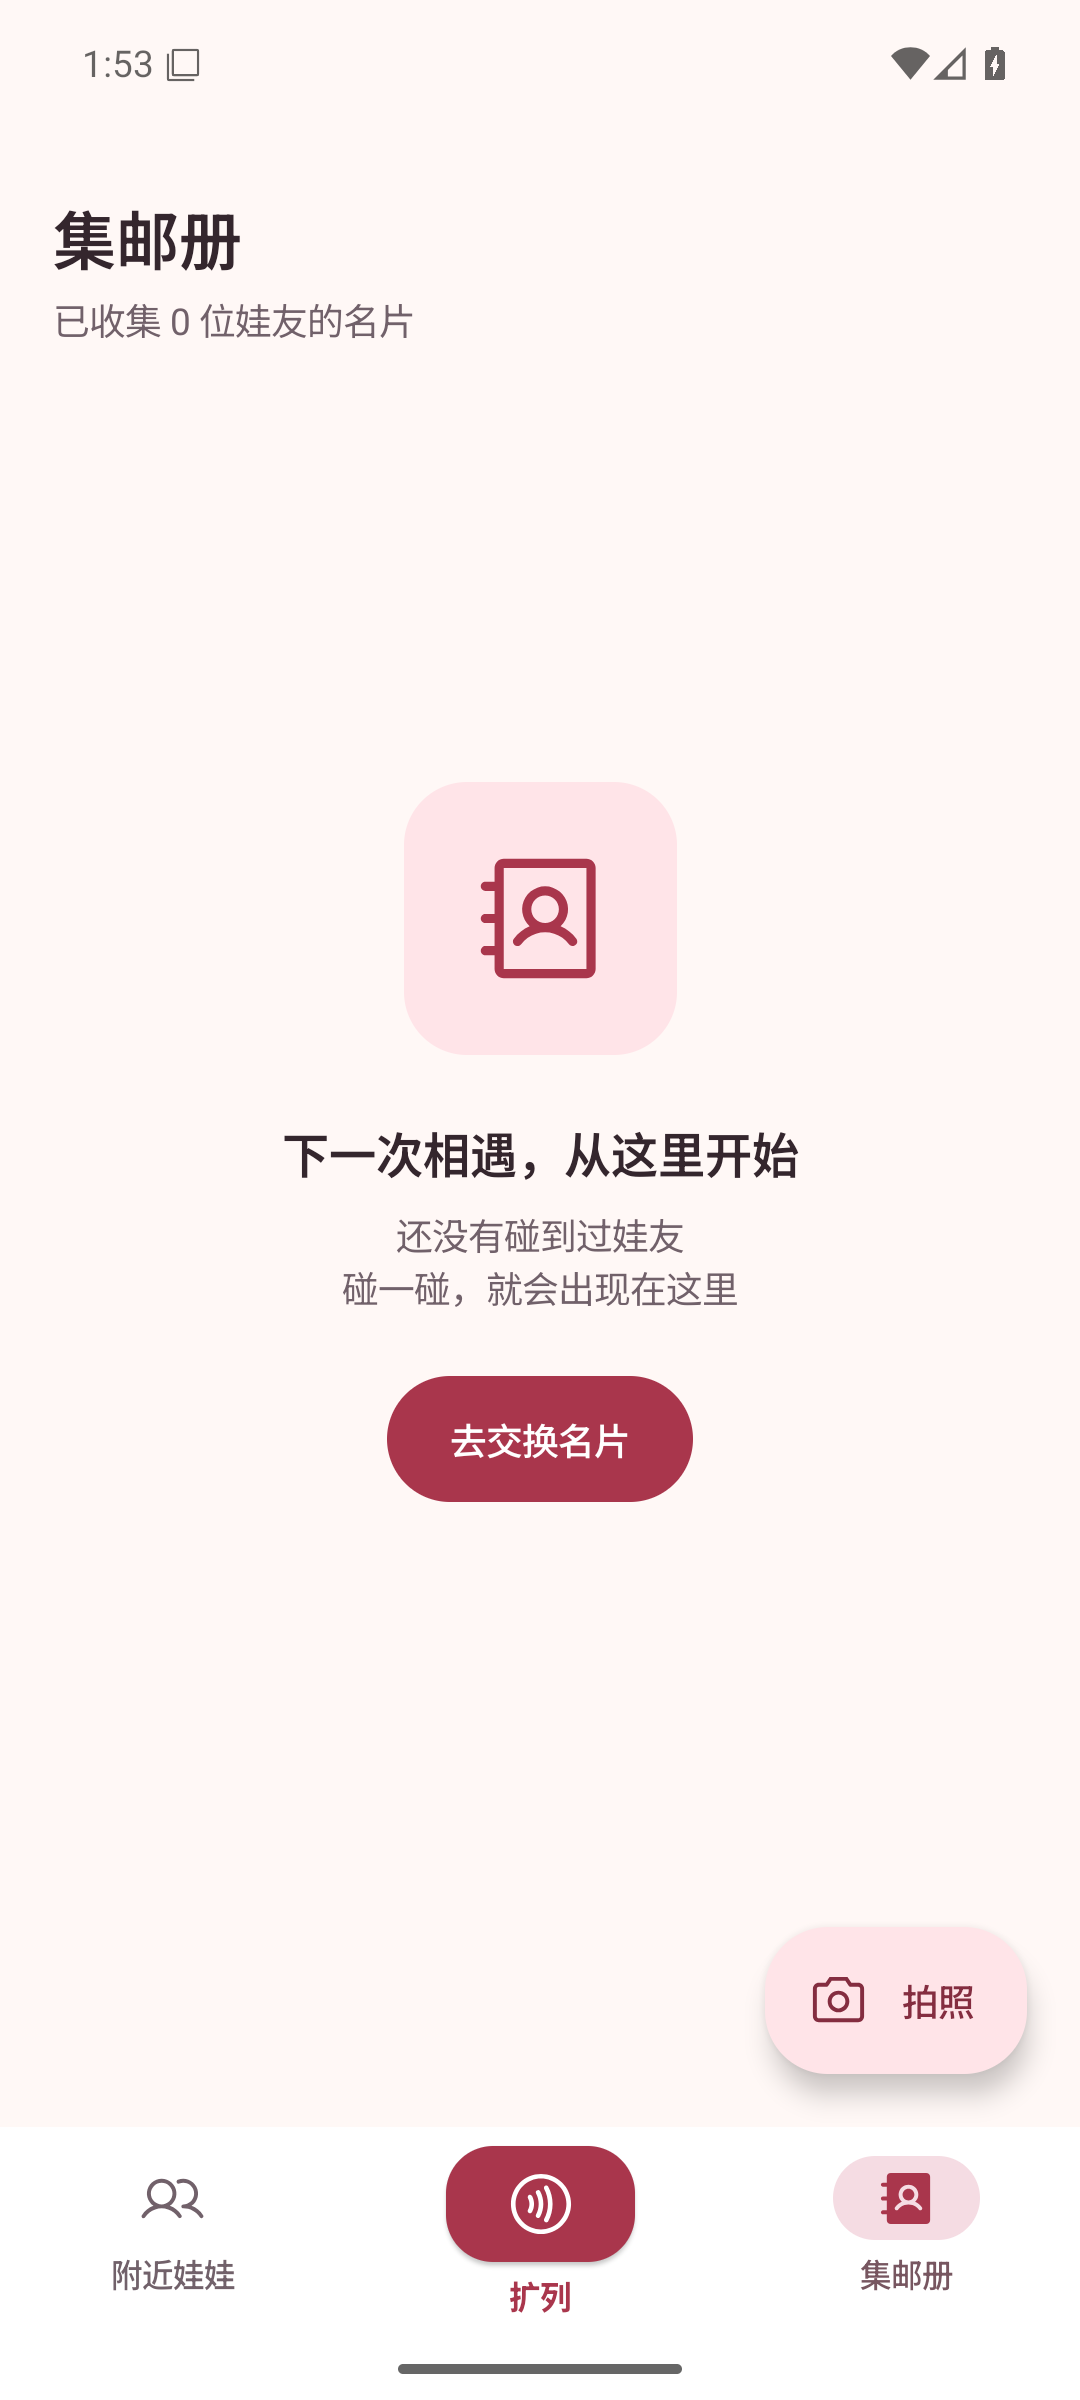
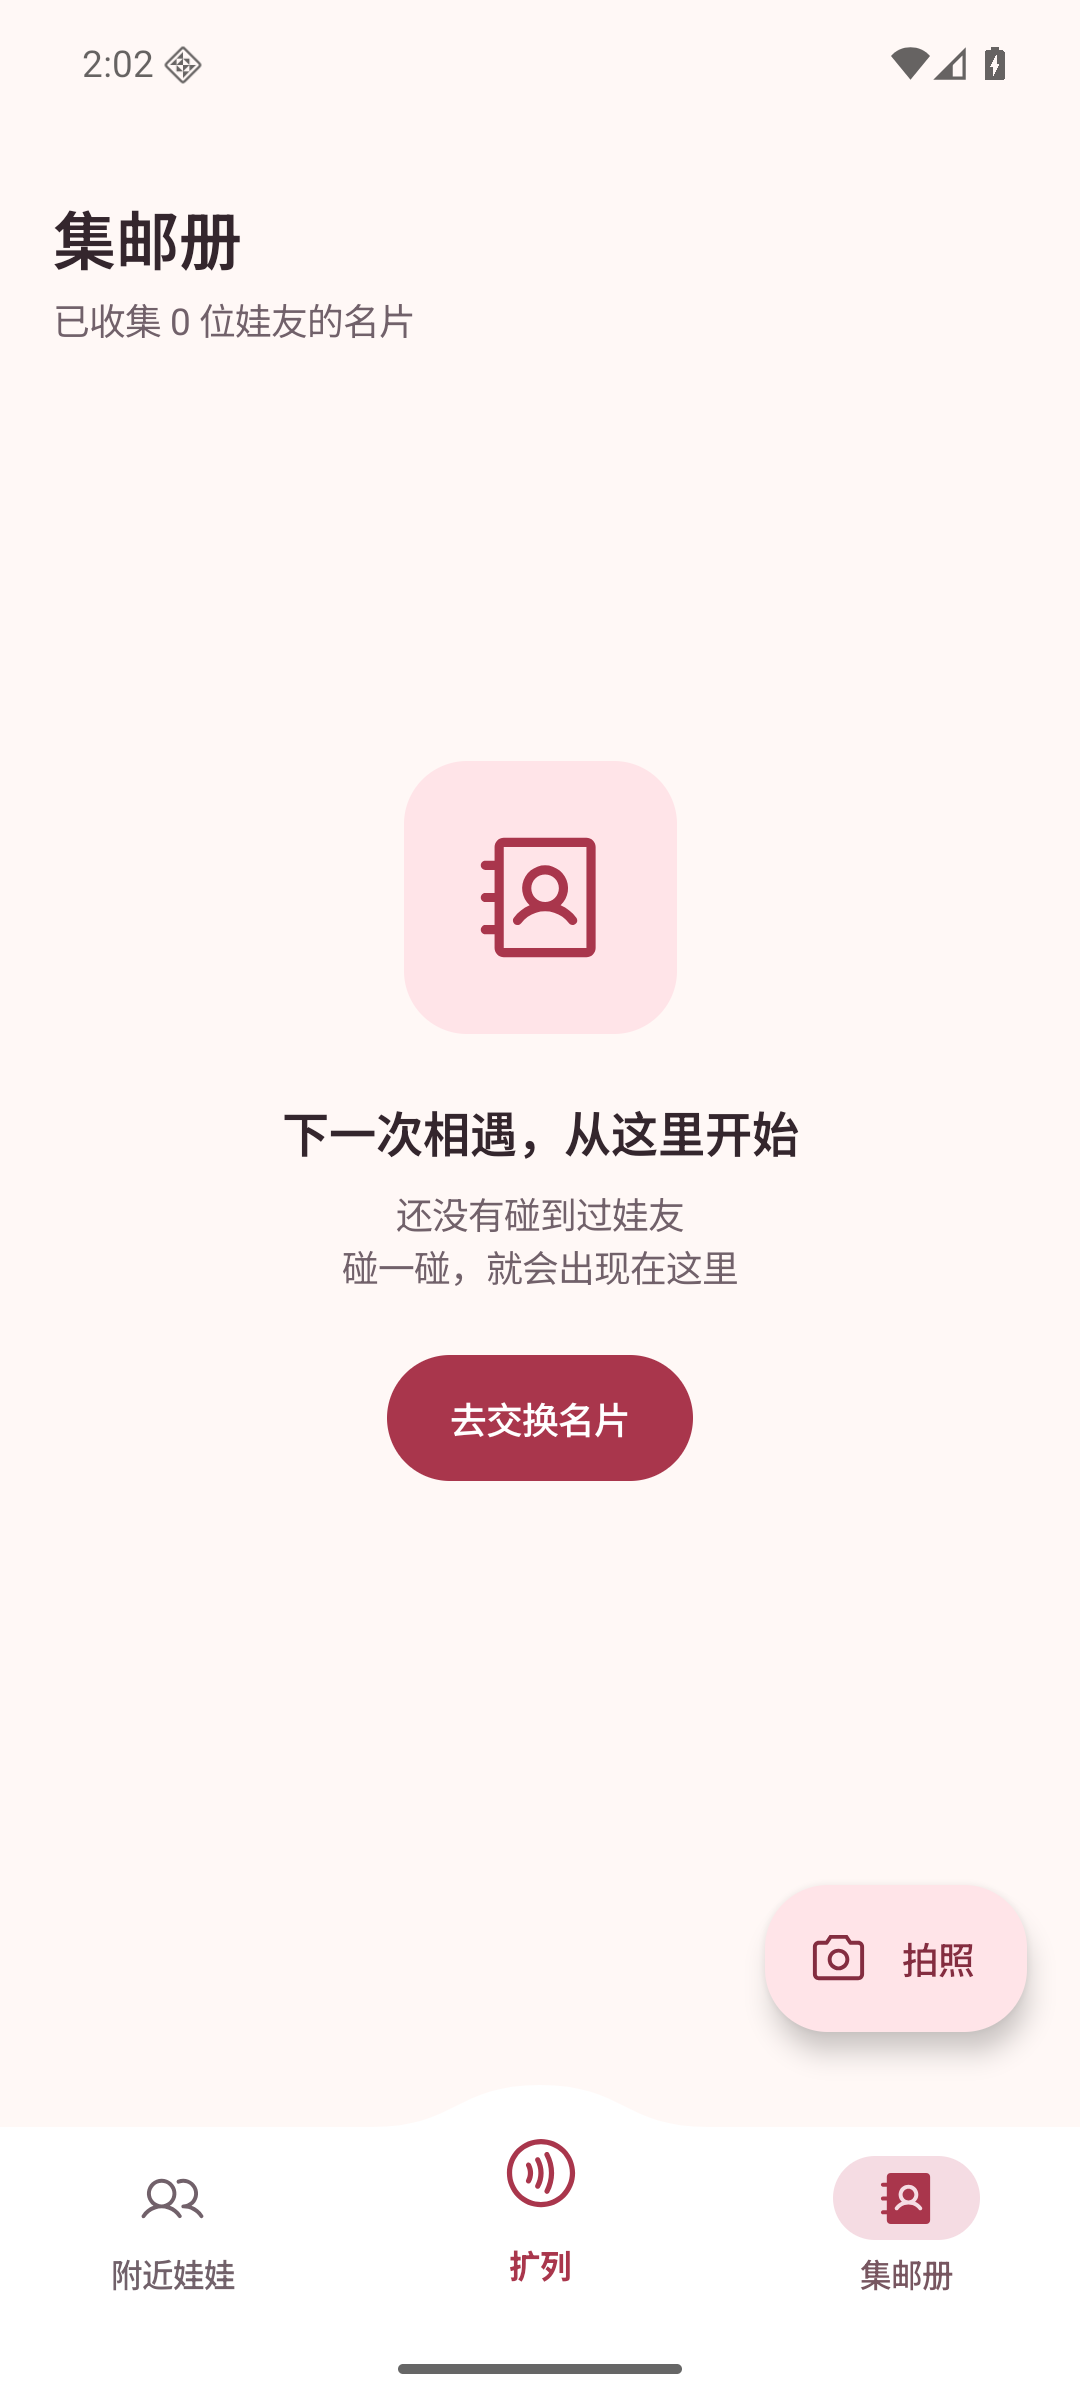
refactor: 将扩列入口融入导航栏轮廓

diff --git a/app/src/main/kotlin/app/pengwa/ui/AppNavigation.kt b/app/src/main/kotlin/app/pengwa/ui/AppNavigation.kt
@@ -4,13 +4,15 @@ import androidx.compose.foundation.background
 import androidx.compose.foundation.layout.*
 import androidx.compose.foundation.selection.selectable
 import androidx.compose.foundation.shape.CircleShape
-import androidx.compose.foundation.shape.RoundedCornerShape
 import androidx.compose.foundation.rememberScrollState
 import androidx.compose.foundation.verticalScroll
 import androidx.compose.material3.*
 import androidx.compose.runtime.Composable
 import androidx.compose.ui.Alignment
 import androidx.compose.ui.Modifier
+import androidx.compose.ui.draw.drawBehind
+import androidx.compose.ui.graphics.Color
+import androidx.compose.ui.graphics.Path
 import androidx.compose.ui.semantics.Role
 import androidx.compose.ui.text.font.FontWeight
 import androidx.compose.ui.platform.LocalDensity
@@ -57,7 +59,7 @@ internal fun PengWaScaffold(
                 ) {
                     destinations.forEach { item ->
                         if (item.tab == MainActivity.TAB_ME) {
-                            PrimaryDestination(selectedTab == item.tab, { onSelect(item.tab) }, Modifier.width(80.dp))
+                            PrimaryDestination(selectedTab == item.tab, { onSelect(item.tab) }, Modifier.width(80.dp), inRail = true)
                         } else NavigationRailItem(
                             selected = selectedTab == item.tab,
                             onClick = { onSelect(item.tab) },
@@ -76,16 +78,39 @@ internal fun PengWaScaffold(
 
 @Composable
 internal fun PengWaNavigation(selectedTab: Int, onSelect: (Int) -> Unit) {
-    NavigationBar(containerColor = MaterialTheme.colorScheme.surface, tonalElevation = 0.dp) {
-        destinations.forEach { item ->
-            if (item.tab == MainActivity.TAB_ME) {
-                PrimaryDestination(selectedTab == item.tab, { onSelect(item.tab) }, Modifier.weight(1f))
-            } else NavigationBarItem(
-                selected = selectedTab == item.tab,
-                onClick = { onSelect(item.tab) },
-                icon = { DestinationIcon(item, selectedTab == item.tab) },
-                label = { Text(stringResource(item.label)) },
-            )
+    val barColor = MaterialTheme.colorScheme.surface
+    // Draw one continuous bar silhouette: the central crest belongs to the bar itself.
+    Box(Modifier.drawBehind {
+        val top = 16.dp.toPx()
+        val center = size.width / 2f
+        val shoulder = 64.dp.toPx()
+        val path = Path().apply {
+            moveTo(0f, top)
+            lineTo(center - shoulder, top)
+            cubicTo(center - shoulder / 2f, top, center - shoulder / 2f, 0f, center, 0f)
+            cubicTo(center + shoulder / 2f, 0f, center + shoulder / 2f, top, center + shoulder, top)
+            lineTo(size.width, top)
+            lineTo(size.width, size.height)
+            lineTo(0f, size.height)
+            close()
+        }
+        drawPath(path, barColor)
+    }) {
+        NavigationBar(
+            modifier = Modifier.padding(top = 16.dp),
+            containerColor = Color.Transparent,
+            tonalElevation = 0.dp,
+        ) {
+            destinations.forEach { item ->
+                if (item.tab == MainActivity.TAB_ME) {
+                    PrimaryDestination(selectedTab == item.tab, { onSelect(item.tab) }, Modifier.weight(1f).offset(y = (-12).dp))
+                } else NavigationBarItem(
+                    selected = selectedTab == item.tab,
+                    onClick = { onSelect(item.tab) },
+                    icon = { DestinationIcon(item, selectedTab == item.tab) },
+                    label = { Text(stringResource(item.label)) },
+                )
+            }
         }
     }
 }
@@ -100,24 +125,18 @@ private fun DestinationIcon(item: Destination, selected: Boolean) {
 
 /** The core exchange destination stays prominent even while browsing the supporting tabs. */
 @Composable
-private fun PrimaryDestination(selected: Boolean, onClick: () -> Unit, modifier: Modifier = Modifier) {
+private fun PrimaryDestination(selected: Boolean, onClick: () -> Unit, modifier: Modifier = Modifier, inRail: Boolean = false) {
     Column(
         modifier = modifier
             .heightIn(min = 80.dp)
+            .background(if (inRail) MaterialTheme.colorScheme.primaryContainer else Color.Transparent)
             .selectable(selected = selected, onClick = onClick, role = Role.Tab)
             .padding(vertical = 4.dp),
         horizontalAlignment = Alignment.CenterHorizontally,
         verticalArrangement = Arrangement.spacedBy(4.dp, Alignment.CenterVertically),
     ) {
-        Surface(
-            shape = RoundedCornerShape(18.dp),
-            color = MaterialTheme.colorScheme.primary,
-            contentColor = MaterialTheme.colorScheme.onPrimary,
-            shadowElevation = if (selected) 4.dp else 1.dp,
-        ) {
-            Box(Modifier.size(width = 72.dp, height = 44.dp), contentAlignment = Alignment.Center) {
-                PengWaIcon(PengWaIcons.Tap, Modifier.size(28.dp), tint = MaterialTheme.colorScheme.onPrimary)
-            }
+        Box(Modifier.size(width = 72.dp, height = 44.dp), contentAlignment = Alignment.Center) {
+            PengWaIcon(PengWaIcons.Tap, Modifier.size(32.dp), tint = MaterialTheme.colorScheme.primary)
         }
         Row(horizontalArrangement = Arrangement.spacedBy(4.dp), verticalAlignment = Alignment.CenterVertically) {
             if (selected) Box(Modifier.size(4.dp).background(MaterialTheme.colorScheme.primary, CircleShape))

diff --git a/docs/screenshots/primary-navigation/README.md b/docs/screenshots/primary-navigation/README.md
@@ -1,6 +1,6 @@
 # 扩列主导航入口
 
-将碰一碰／二维码／扫一扫所在的默认页面从“主页”改为导航正中的“扩列”。导航顺序为“附近娃娃／扩列／集邮册”。扩列入口使用常驻主题主色底、放大的碰一碰图标和加粗标签，选中时额外显示圆点；两侧保留常规导航样式。横屏短窗口的侧栏使用相同主次关系。默认打开的页面与交换逻辑沿用现有实现。
+将碰一碰／二维码／扫一扫所在的默认页面从“主页”改为导航正中的“扩列”。导航顺序为“附近娃娃／扩列／集邮册”。底部导航栏中央以连续曲线向上凸起，扩列图标与文字位于这段凸起中，没有独立的实底胶囊或阴影。放大的主题色图标、加粗标签和选中圆点保留主入口强调；两侧保留常规导航样式。横屏短窗口的侧栏使用通栏浅色背景强调扩列，无圆角卡片和阴影。默认打开的页面与交换逻辑沿用现有实现。
 
 ## 运行环境与测试数据
 
@@ -9,9 +9,11 @@
 - 窄屏：840 × 1680、420 dpi（320 × 640dp）、字体 1.5 倍；浅色。
 - 横屏短窗口：1680 × 840、420 dpi（640 × 320dp）、字体 1.0 倍；浅色。
 - 全部图片来自运行中的 Debug APK，由 `adb exec-out screencap -p` 获取。使用原有 `UiPreviewActivity` 固定测试场景，没有真实用户姓名、ID 或联系人。
-- 扩列场景为 `home` sample 1（合成身份“小棉花”，已是默认钱包）；附近场景为 `bluetooth` sample 0（未授权），集邮册为 `contacts` sample 0（空列表）。前后截图使用同一工作区基线、相同数据与设备配置。
+- 扩列场景为 `home` sample 1（合成身份“小棉花”，已是默认钱包）；附近场景为 `bluetooth` sample 0（未授权），集邮册为 `contacts` sample 0（空列表）。变更前来自 PR 基线 main（`a9ac122`），变更后来自本分支；使用相同数据与设备配置。
 
 ## 前后截图（可用于 PR 描述）
+
+下表为原导航与一体式导航的对照。
 
 | 页面／状态 | 变更前 | 变更后 |
 |---|---|---|
@@ -32,7 +34,7 @@
    adb -s emulator-5560 shell am start -n app.pengwa.debug/app.pengwa.ui.UiPreviewActivity --es screen home --ei sample 1
    ```
 
-3. 分别使用 `--es screen bluetooth --ei sample 0`、`--es screen contacts --ei sample 0` 打开两侧页面。确认扩列在正中、始终有主题主色底；仅选中扩列时标签前有圆点。
+3. 分别使用 `--es screen bluetooth --ei sample 0`、`--es screen contacts --ei sample 0` 打开两侧页面。确认扩列在导航栏正中凸起处，轮廓与栏体连续、没有悬浮阴影；仅选中扩列时标签前有圆点。
 4. 用 `adb -s emulator-5560 shell cmd uimode night yes` 切换深色，`no` 恢复浅色。
 5. 窄屏验证：`adb -s emulator-5560 shell wm size 840x1680`，`adb -s emulator-5560 shell settings put system font_scale 1.5`，确认三个入口及标签可见。
 6. 字体恢复 `1.0`，使用 `wm size 1680x840` 验证横屏侧栏。完成后执行 `wm size reset`、`font_scale 1.0` 和 `cmd uimode night no` 恢复配置。
@@ -41,7 +43,8 @@
 ## 验证结果与边界
 
 - 原工作区的 Debug 构建、Android lint 与 `git diff --check` 通过。
+- PR 独立分支的 `assembleDebug :app:lintDebug` 通过。
 - PR 独立分支基于最新 main（`a9ac122`）构建；全模块 `lintDebug` 被已有蓝牙模块的两处 `WrongConstant` 错误阻挡，位置均在未修改的 `core/bluetooth/.../BleExchangeManager.kt:902`。PR 未修改该模块。
-- 已核对上述运行中应用的前后截图：导航顺序、扩列常驻强调、选中圆点、浅深主题、窄屏大字体和横屏侧栏。
+- 已核对上述运行中应用的前后截图：导航顺序、扩列与导航栏连为一体的强调、选中圆点、浅深主题、窄屏大字体和横屏侧栏。
 - 主入口使用 Tab 角色和 selected 语义，整个导航项可点击，最小高度 80dp。未进行 TalkBack 语音实测。
 - 固定预览场景的导航回调为空，仅用于验证界面与各页面选中状态；真实 NFC、蓝牙交换与扫码硬件行为未在本次复测。
